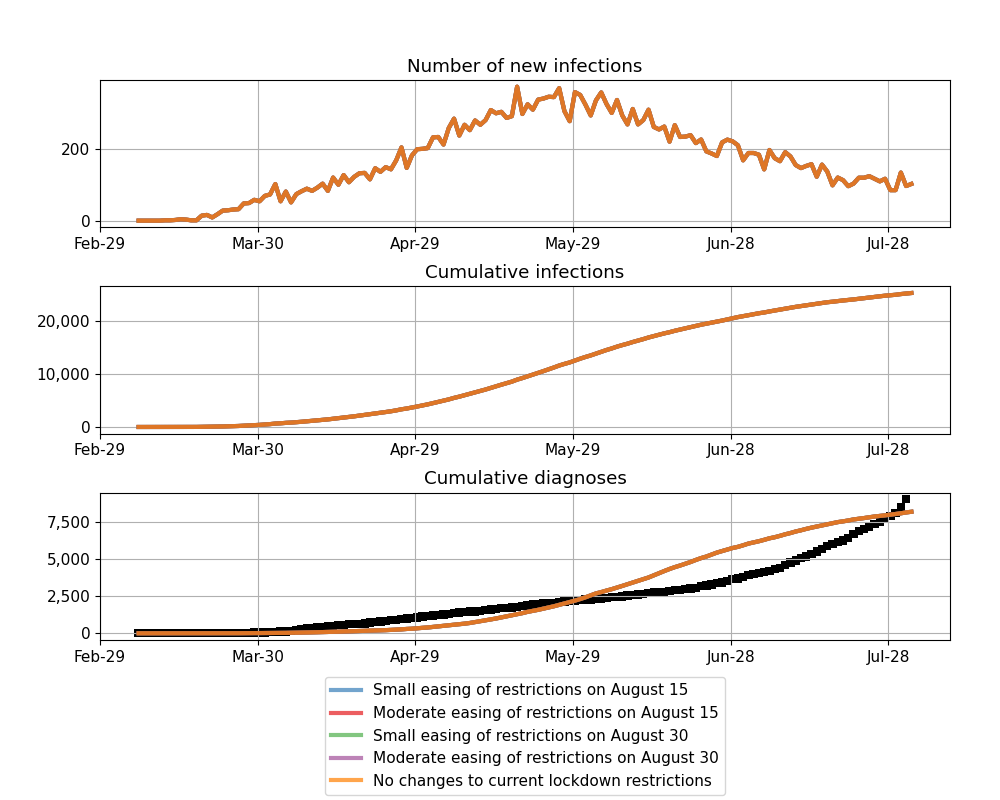
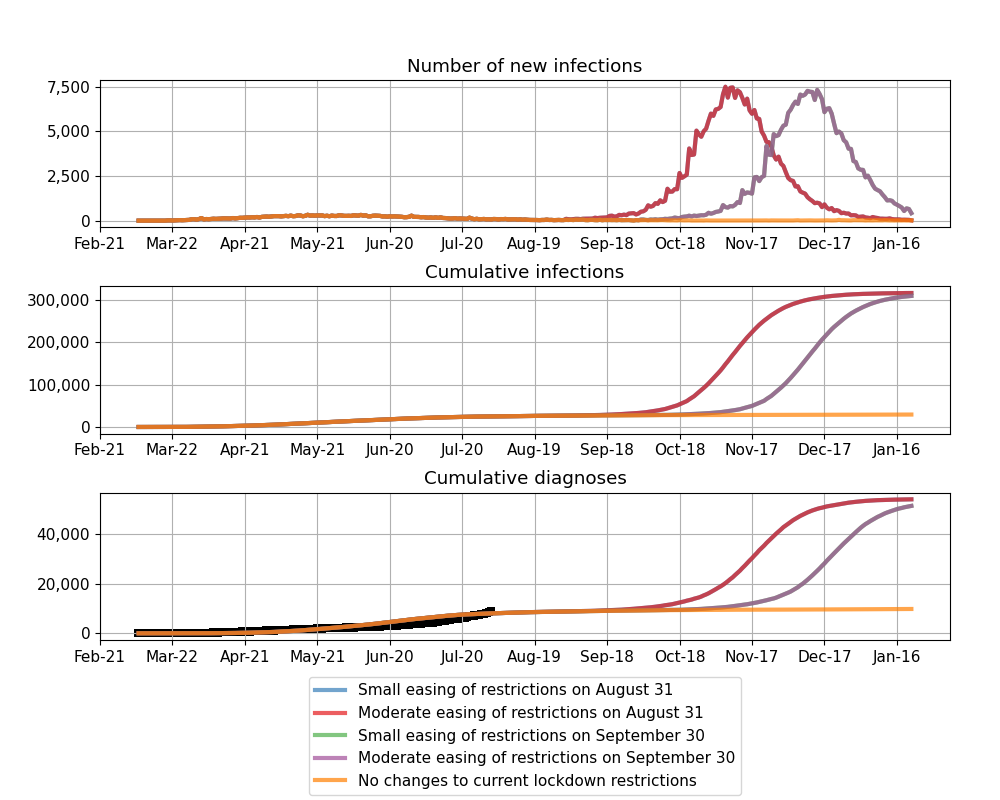
mobile scripts output

diff --git a/applications/us_states/run_mobile.py b/applications/us_states/run_mobile.py
@@ -20,45 +20,46 @@ if __name__ == "__main__":
 
     # country-specific parameters
     user_pars = {locations[0]: {'pop_size': int(10e4),
-                        'beta': 0.1, # key calibration parameter, overwrites value in input databook `other_par` tab
-                        'n_days': 147, # number of days in data series (start day = day 0; calibration: all days; validation: 2/3 days)
+                        'beta': 0.1, # key parameter, overwrites value in input databook `other_par` tab
+                        'n_days': 320, # number of days in projection
                         'pop_infected': 5, # initial number of people infected, may need adjustment when calibrating
                         'calibration_end': '2020-08-01'}} #for first, and run calibration: date last data entry available, for validation calibration: data series start 2020-03-08 (1st case) to end 2020-08-01, 147 days * 2/3rd data series (i.e. *0.67)= 98 days -> 2020-03-08 + 98 days= 2020-06-13 
 
 
     mid_july = 130 # make this the key date
     mid_aug = mid_july + 31
+    end_aug = mid_july + 48
     mid_sep = mid_aug + 31
+    end_sep = mid_aug + 47
     end_oct = mid_sep + 46
     mid_nov = end_oct + 15
     end_dec = mid_nov + 46
 
-    # the metapars for all countries and scenarios
-    metapars = {'n_runs': 8,
-                'noise': 0.02,
+    # metapars for all countries and scenarios
+    metapars = {'n_runs': 1,
+                'noise': 0.0,
                 'verbose': 1,
                 'rand_seed': 1}
 
-    # the policies to change during scenario runs
-
-    scen_opts = {locations[0]: {'Small easing of restrictions on August 15':
-                                    {'replace': (['relax3'], ['relax4'], [[161]])},
-
-                                'Moderate easing of restrictions on August 15':
-                                {'replace': (['relax3'], ['relax5'], [[161]])},
-
-                                'Small easing of restrictions on August 30':
+    # policies to change during scenario runs
+    scen_opts = {locations[0]:  {'Small easing of restrictions on August 31':
                                 {'replace': (['relax3'], ['relax4'], [[177]])},
 
-                                'Moderate easing of restrictions on August 30':
+                                'Moderate easing of restrictions on August 31':
                                 {'replace': (['relax3'], ['relax5'], [[177]])},
+
+                                'Small easing of restrictions on September 30':
+                                {'replace': (['relax3'], ['relax4'], [[208]])},
+
+                                'Moderate easing of restrictions on September 30':
+                                {'replace': (['relax3'], ['relax5'], [[208]])},
 
                                 'No changes to current lockdown restrictions':
                                 {'replace': (['relax3'], [['relax3']], [[370]])}
                                   }}
-
-
-    # set up the scenarios
+ 
+    
+    # set-up the scenarios
     scens = ui.setup_scens(locations=locations,
                            db_name=db_name,
                            epi_name=epi_name,
@@ -73,7 +74,7 @@ if __name__ == "__main__":
     scens['verbose'] = True
 
     utils.policy_plot2(scens, plot_ints=False, do_save=False, do_show=True,
-                       fig_path=dirname + '/figs/Mobile-calibrate' + '.png',
+                       fig_path=dirname + '/figs_mobile/Mobile-projection' + '.png',
                        interval=30, n_cols=2,
                        fig_args=dict(figsize=(10, 5), dpi=100),
                        font_size=11,
@@ -134,30 +135,30 @@ if __name__ == "__main__":
     # Mid Bound: small change mid- July
     new_inf_MB_sep_oct = sum(
         scens['scenarios'][locations[0]].results['new_infections'][
-            'Small easing of restrictions on August 15']['best'][
+            'Small easing of restrictions on August 30']['best'][
         mid_sep:end_oct])
     new_diag_MB_sep_oct = sum(
         scens['scenarios'][locations[0]].results['new_diagnoses'][
-            'Small easing of restrictions on August 15']['best'][
+            'Small easing of restrictions on August 30']['best'][
         mid_sep:end_oct])
     cum_inf_MB_sep_oct = \
         scens['scenarios'][locations[0]].results['cum_infections'][
-            'Small easing of restrictions on August 15']['best'][end_oct]
+            'Small easing of restrictions on August 30']['best'][end_oct]
     incidence_MB_sep_oct = 100 * new_inf_MB_sep_oct * 30 / (end_oct - mid_sep) / population
     detected_MB_sep_oct = 100 * new_diag_MB_sep_oct * 30 / (end_oct - mid_sep) / population
     seroprev_MB_sep_oct = cum_inf_MB_sep_oct / population
 
     new_inf_MB_nov_dec = sum(
         scens['scenarios'][locations[0]].results['new_infections'][
-            'Small easing of restrictions on August 15']['best'][
+            'Small easing of restrictions on August 30']['best'][
         mid_nov:end_dec])
     new_diag_MB_nov_dec = sum(
         scens['scenarios'][locations[0]].results['new_diagnoses'][
-            'Small easing of restrictions on August 15']['best'][
+            'Small easing of restrictions on August 30']['best'][
         mid_nov:end_dec])
     cum_inf_MB_nov_dec = \
         scens['scenarios'][locations[0]].results['cum_infections'][
-            'Small easing of restrictions on August 15']['best'][end_dec]
+            'Small easing of restrictions on August 30']['best'][end_dec]
     incidence_MB_nov_dec = 100 * new_inf_MB_nov_dec * 30 / (end_dec - mid_nov) / population
     detected_MB_nov_dec = 100 * new_diag_MB_nov_dec * 30 / (end_dec - mid_nov) / population
     seroprev_MB_nov_dec = cum_inf_MB_nov_dec / population
@@ -165,30 +166,30 @@ if __name__ == "__main__":
     # Upper Bound: moderate change mid-August
     new_inf_UB_sep_oct = sum(
         scens['scenarios'][locations[0]].results['new_infections'][
-            'Moderate easing of restrictions on August 15']['best'][
+            'Moderate easing of restrictions on August 30']['best'][
         mid_sep:end_oct])
     new_diag_UB_sep_oct = sum(
         scens['scenarios'][locations[0]].results['new_diagnoses'][
-            'Moderate easing of restrictions on August 15']['best'][
+            'Moderate easing of restrictions on August 30']['best'][
         mid_sep:end_oct])
     cum_inf_UB_sep_oct = \
         scens['scenarios'][locations[0]].results['cum_infections'][
-            'Moderate easing of restrictions on August 15']['best'][end_oct]
+            'Moderate easing of restrictions on August 30']['best'][end_oct]
     incidence_UB_sep_oct = 100 * new_inf_UB_sep_oct * 30 / (end_oct - mid_sep) / population
     detected_UB_sep_oct = 100 * new_diag_UB_sep_oct * 30 / (end_oct - mid_sep) / population
     seroprev_UB_sep_oct = cum_inf_UB_sep_oct / population
 
     new_inf_UB_nov_dec = sum(
         scens['scenarios'][locations[0]].results['new_infections'][
-            'Moderate easing of restrictions on August 15']['best'][
+            'Moderate easing of restrictions on August 30']['best'][
         mid_nov:end_dec])
     new_diag_UB_nov_dec = sum(
         scens['scenarios'][locations[0]].results['new_diagnoses'][
-            'Moderate easing of restrictions on August 15']['best'][
+            'Moderate easing of restrictions on August 30']['best'][
         mid_nov:end_dec])
     cum_inf_UB_nov_dec = \
         scens['scenarios'][locations[0]].results['cum_infections'][
-            'Moderate easing of restrictions on August 15']['best'][end_dec]
+            'Moderate easing of restrictions on August 30']['best'][end_dec]
     incidence_UB_nov_dec = 100 * new_inf_UB_nov_dec * 30 / (end_dec - mid_nov) / population
     detected_UB_nov_dec = 100 * new_diag_UB_nov_dec * 30 / (end_dec - mid_nov) / population
     seroprev_UB_nov_dec = cum_inf_UB_nov_dec / population
@@ -214,47 +215,47 @@ if __name__ == "__main__":
 
     worksheet.add_table('A1:X4', {'data': projections})
     worksheet2 = workbook.add_worksheet('Daily projections')
-    sdate = date(2020, 7, 15)  # start date
+    sdate = date(2020, 7, 15)   # start date
     edate = date(2020, 12, 31)  # end date
-
+   
     daily_inf_small_aug = scens['scenarios'][locations[0]].results['new_infections'][
-                              'Moderate easing of restrictions on August 15'] \
+                              'Moderate easing of restrictions on August 31'] \
                               ['best'][mid_july:end_dec]
     daily_death_small_aug = scens['scenarios'][locations[0]].results['new_deaths'][
-                                'Moderate easing of restrictions on August 15'] \
+                                'Moderate easing of restrictions on August 31'] \
                                 ['best'][mid_july:end_dec]
     daily_diag_small_aug = scens['scenarios'][locations[0]].results['new_diagnoses'][
-                               'Moderate easing of restrictions on August 15'] \
+                               'Moderate easing of restrictions on August 31'] \
                                ['best'][mid_july:end_dec]
-
+    
     daily_inf_mod_aug = scens['scenarios'][locations[0]].results['new_infections'][
-                            'Small easing of restrictions on August 15'] \
+                            'Small easing of restrictions on August 31'] \
                             ['best'][mid_july:end_dec]
     daily_death_mod_aug = scens['scenarios'][locations[0]].results['new_deaths'][
-                              'Small easing of restrictions on August 15'] \
+                              'Small easing of restrictions on August 31'] \
                               ['best'][mid_july:end_dec]
     daily_diag_mod_aug = scens['scenarios'][locations[0]].results['new_diagnoses'][
-                             'Small easing of restrictions on August 15'] \
+                             'Small easing of restrictions on August 31'] \
                              ['best'][mid_july:end_dec]
-
+    
     daily_inf_small_sep = scens['scenarios'][locations[0]].results['new_infections'][
-                              'Moderate easing of restrictions on August 30'] \
+                              'Moderate easing of restrictions on September 30'] \
                               ['best'][mid_july:end_dec]
     daily_death_small_sep = scens['scenarios'][locations[0]].results['new_deaths'][
-                                'Moderate easing of restrictions on August 30'] \
+                                'Moderate easing of restrictions on September 30'] \
                                 ['best'][mid_july:end_dec]
     daily_diag_small_sep = scens['scenarios'][locations[0]].results['new_diagnoses'][
-                               'Moderate easing of restrictions on August 30'] \
+                               'Moderate easing of restrictions on September 30'] \
                                ['best'][mid_july:end_dec]
-
+    
     daily_inf_mod_sep = scens['scenarios'][locations[0]].results['new_infections'][
-                            'Small easing of restrictions on August 30'] \
+                            'Small easing of restrictions on September 30'] \
                             ['best'][mid_july:end_dec]
     daily_death_mod_sep = scens['scenarios'][locations[0]].results['new_deaths'][
-                              'Small easing of restrictions on August 30'] \
+                              'Small easing of restrictions on September 30'] \
                               ['best'][mid_july:end_dec]
     daily_diag_mod_sep = scens['scenarios'][locations[0]].results['new_diagnoses'][
-                             'Small easing of restrictions on August 30'] \
+                             'Small easing of restrictions on September 30'] \
                              ['best'][mid_july:end_dec]
 
     daily_inf_no_release = \
